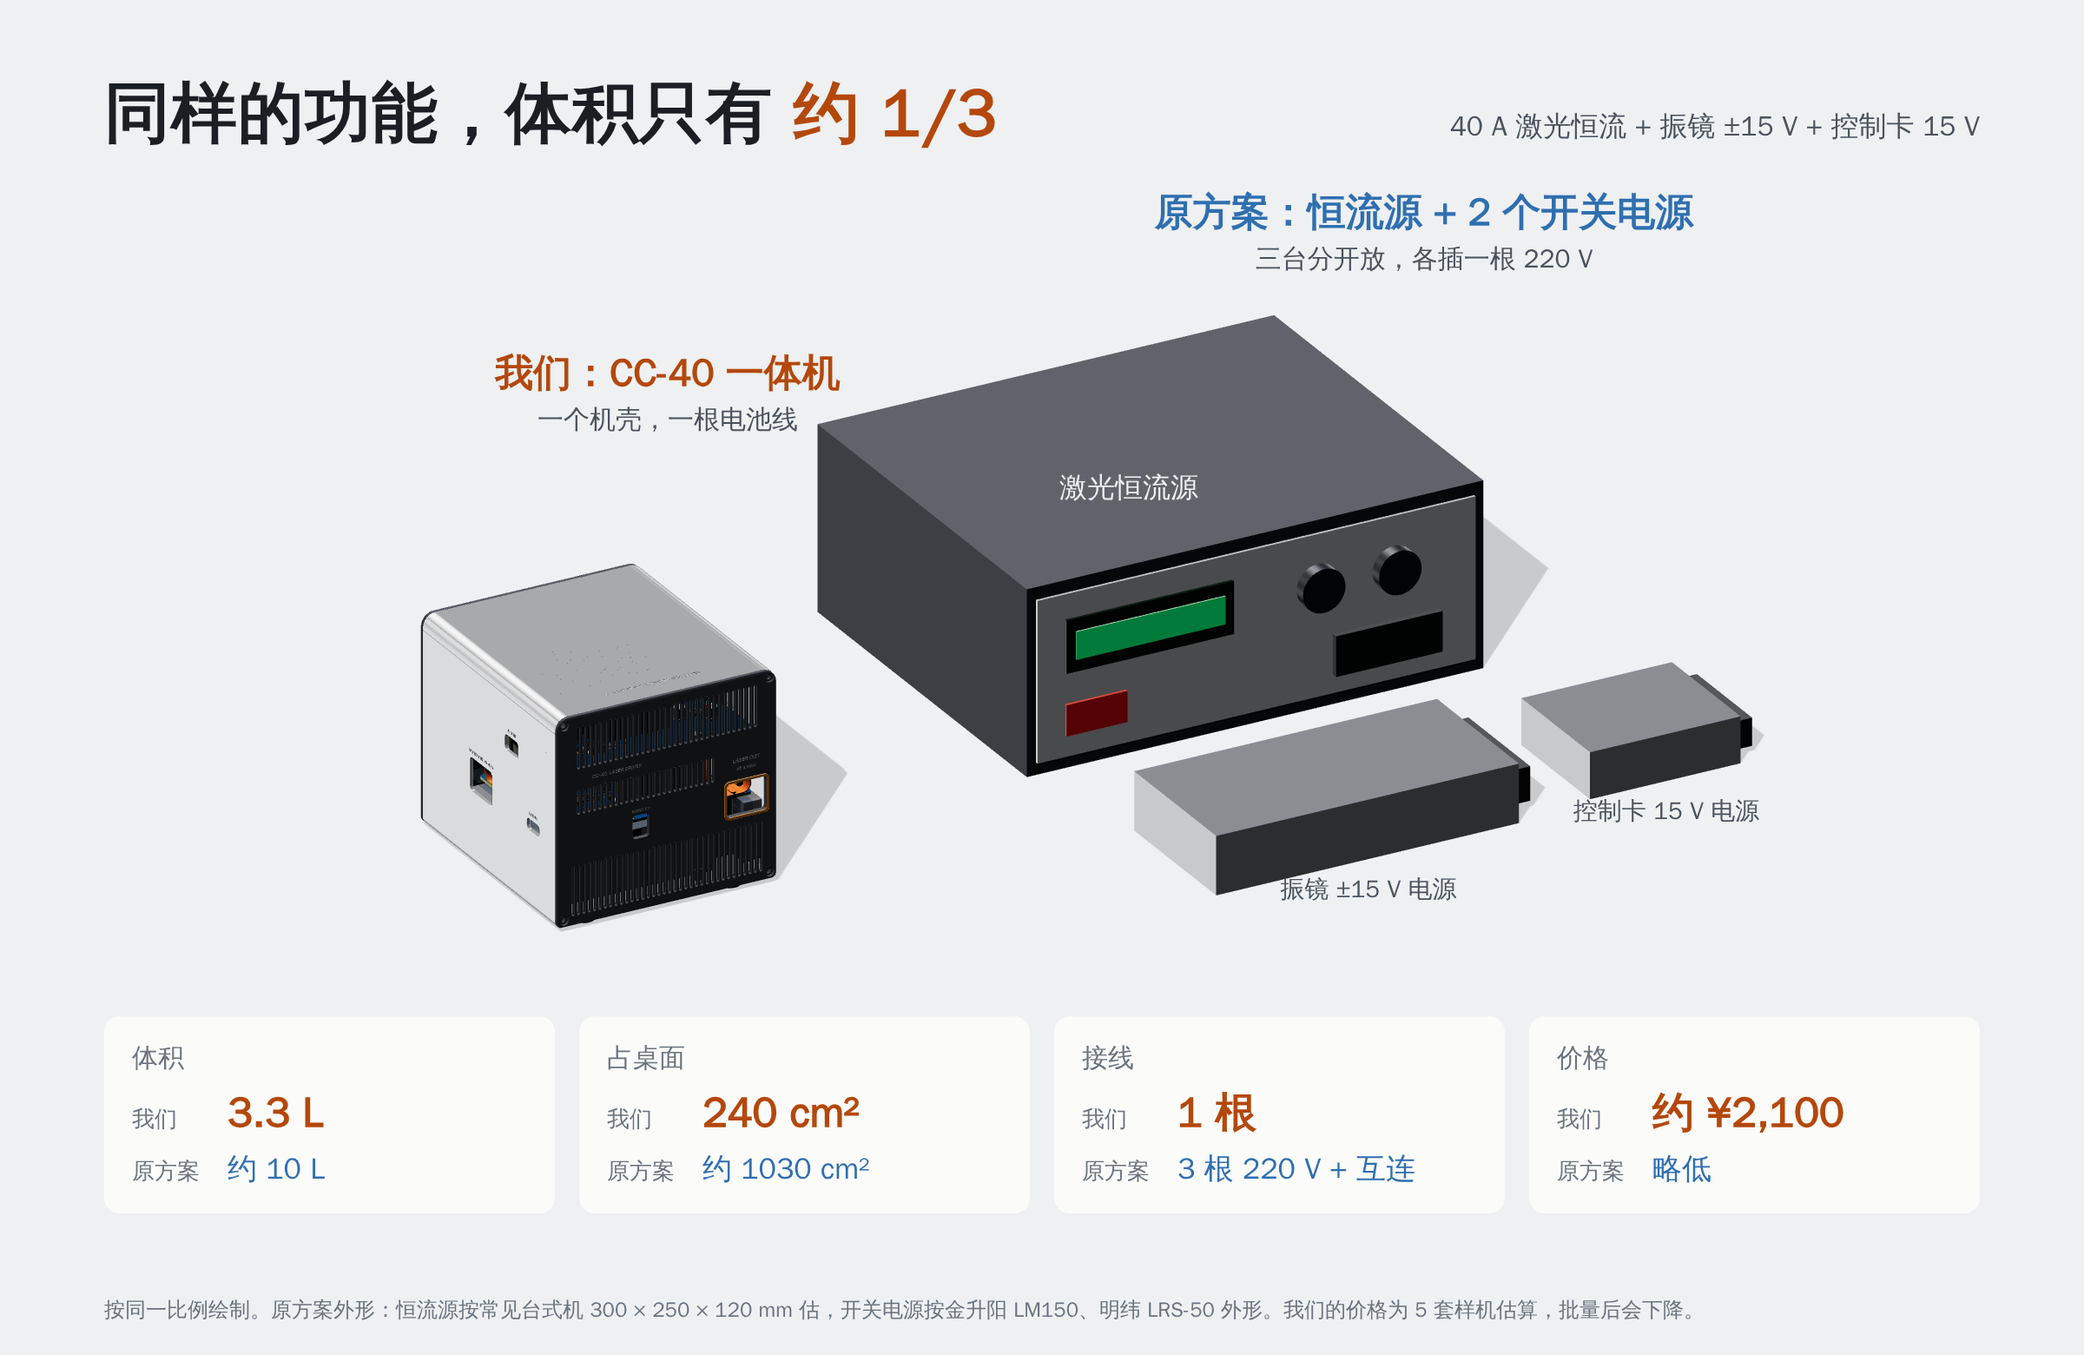
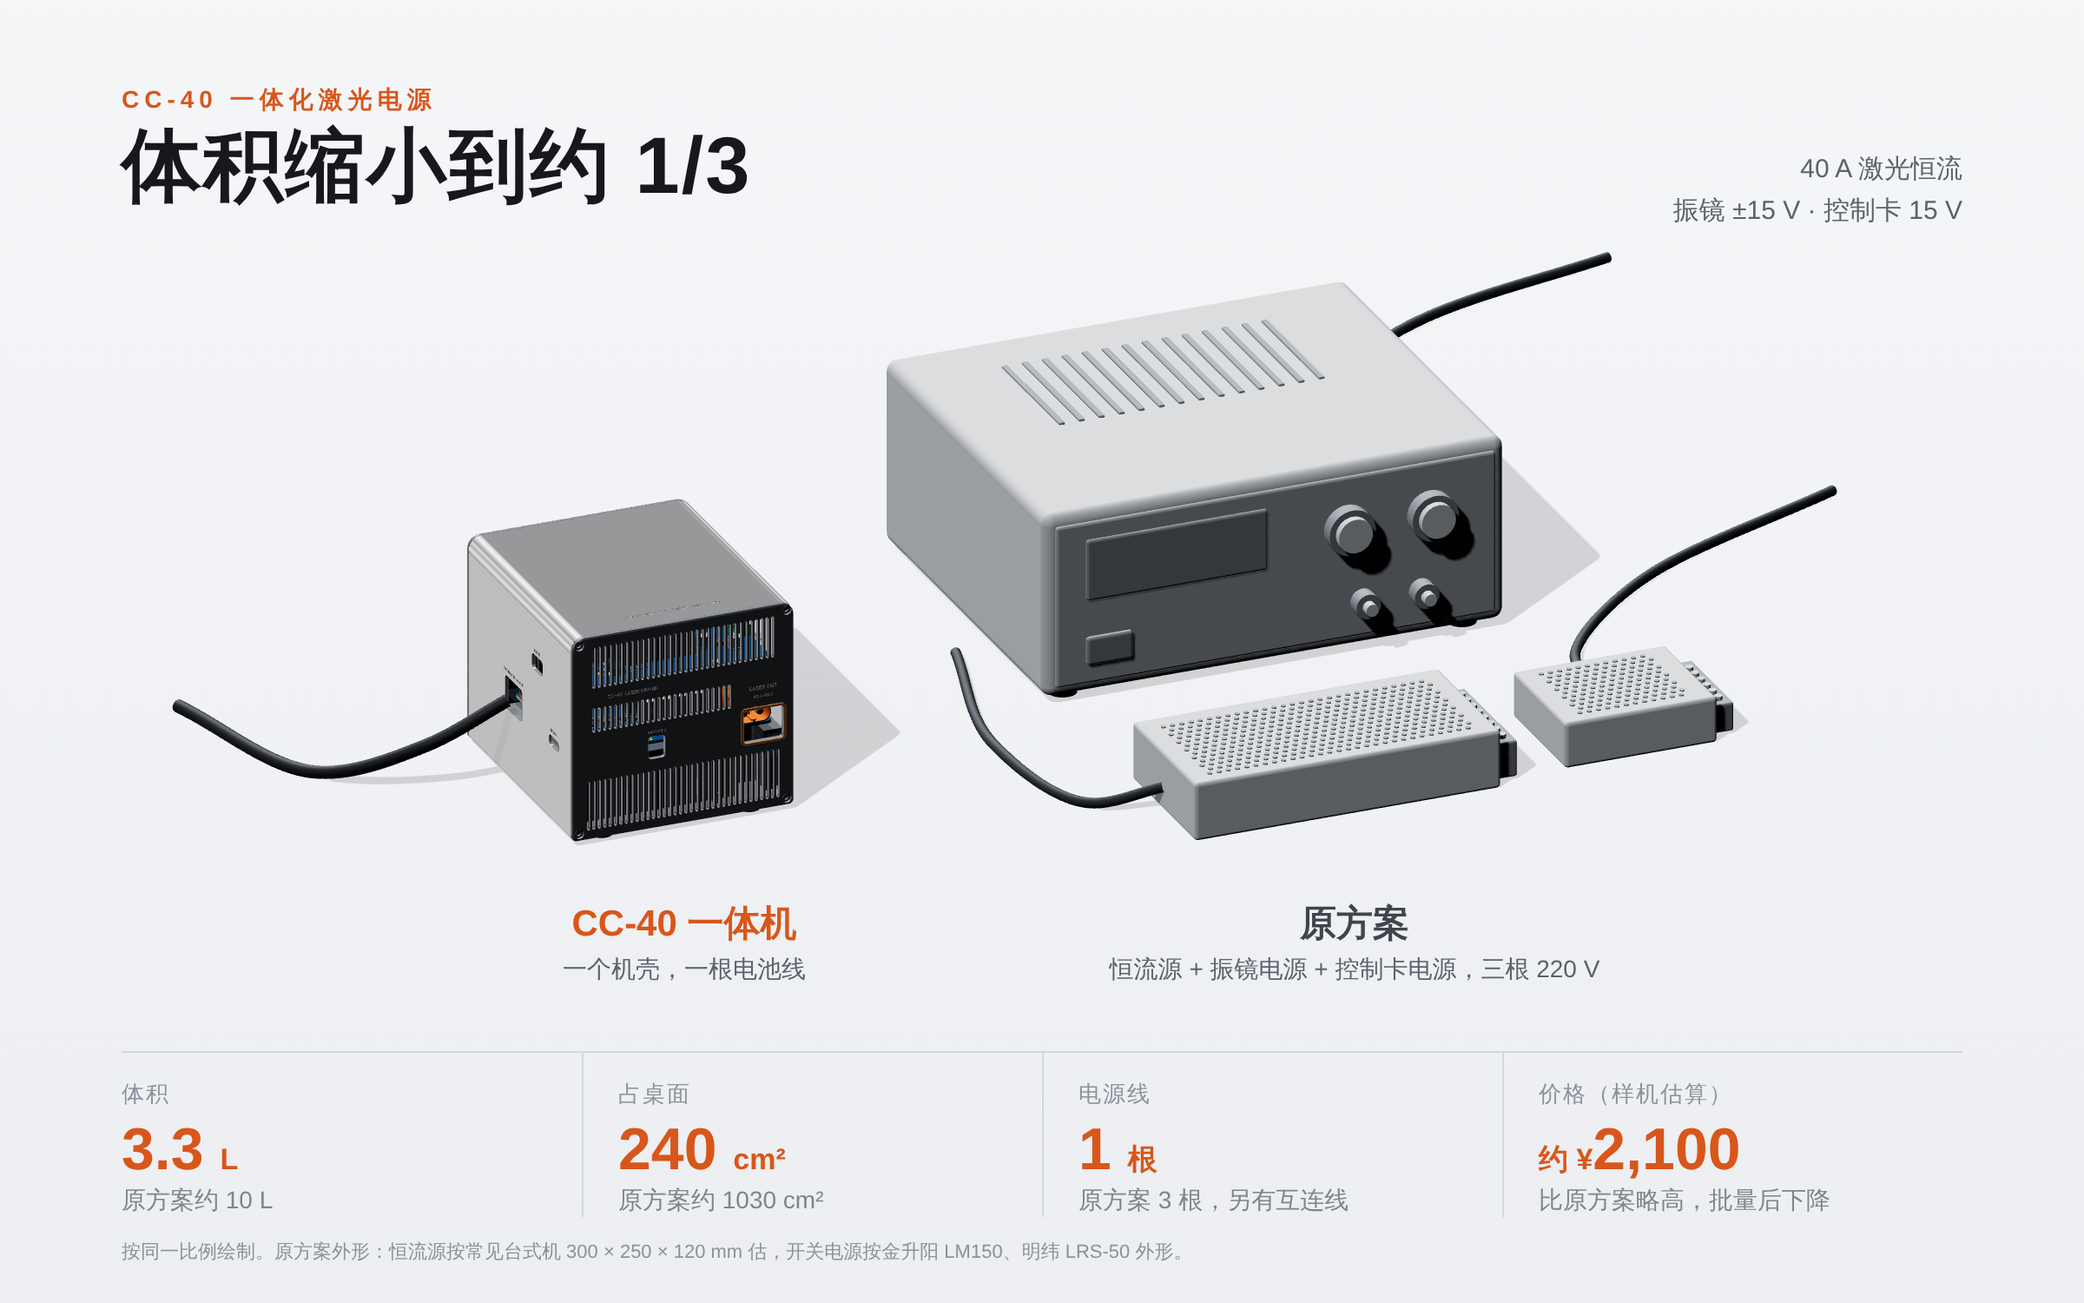
对比图重做：原方案灰色素模、电源线、版面精简
Claude-Session: https://claude.ai/code/session_01T5e27bco3eB8cP9fAY52gn

diff --git a/docs/仿真/成本/对比图_同比例场景.html b/docs/仿真/成本/对比图_同比例场景.html
@@ -1,48 +1,66 @@
-<!doctype html><html><head><meta charset="utf-8"><style>html,body{margin:0;background:#EEF0F2}canvas{display:block}</style>
+<!doctype html><html><head><meta charset="utf-8"><style>html,body{margin:0;background:transparent}canvas{display:block}</style>
 <script type="importmap">{"imports":{"three":"./three/build/three.module.js","three/addons/":"./three/examples/jsm/"}}</script></head><body>
 <script type="module">
 import * as THREE from 'three';
 import {GLTFLoader} from 'three/addons/loaders/GLTFLoader.js';
 import {RoomEnvironment} from 'three/addons/environments/RoomEnvironment.js';
+import {RoundedBoxGeometry} from 'three/addons/geometries/RoundedBoxGeometry.js';
 const W=2400,H=1000;
-const r=new THREE.WebGLRenderer({antialias:true,preserveDrawingBuffer:true});r.setSize(W,H);r.toneMapping=THREE.ACESFilmicToneMapping;r.outputColorSpace=THREE.SRGBColorSpace;r.shadowMap.enabled=true;r.shadowMap.type=THREE.PCFSoftShadowMap;document.body.appendChild(r.domElement);
-const s=new THREE.Scene();s.background=new THREE.Color('#EEF0F2');
+const r=new THREE.WebGLRenderer({antialias:true,preserveDrawingBuffer:true,alpha:true});r.setSize(W,H);r.setClearColor(0x000000,0);
+r.toneMapping=THREE.ACESFilmicToneMapping;r.toneMappingExposure=1.05;r.outputColorSpace=THREE.SRGBColorSpace;r.shadowMap.enabled=true;r.shadowMap.type=THREE.PCFSoftShadowMap;document.body.appendChild(r.domElement);
+const s=new THREE.Scene();
 s.environment=new THREE.PMREMGenerator(r).fromScene(new RoomEnvironment(),0.04).texture;
-const key=new THREE.DirectionalLight(0xffffff,1.5);key.position.set(-400,-700,900);key.castShadow=true;key.shadow.mapSize.set(4096,4096);key.shadow.bias=-0.0004;key.shadow.normalBias=0.6;
-Object.assign(key.shadow.camera,{left:-700,right:700,top:700,bottom:-700,near:10,far:3000});key.target.position.set(330,40,0);s.add(key,key.target);
-const gnd=new THREE.Mesh(new THREE.PlaneGeometry(6000,6000),new THREE.ShadowMaterial({opacity:0.16}));gnd.position.z=-53;gnd.receiveShadow=true;s.add(gnd);
+const key=new THREE.DirectionalLight(0xffffff,1.3);key.position.set(-500,-600,1100);key.castShadow=true;key.shadow.mapSize.set(4096,4096);key.shadow.radius=6;key.shadow.bias=-0.0004;key.shadow.normalBias=0.6;
+Object.assign(key.shadow.camera,{left:-800,right:800,top:800,bottom:-800,near:10,far:3000});key.target.position.set(350,30,0);s.add(key,key.target);
+const gnd=new THREE.Mesh(new THREE.PlaneGeometry(8000,8000),new THREE.ShadowMaterial({opacity:0.13}));gnd.position.z=-53;gnd.receiveShadow=true;s.add(gnd);
 const Z0=-53;
-function box(x,y,w,d,h,col,met=0.5,rough=0.45){const m=new THREE.Mesh(new THREE.BoxGeometry(w,d,h),new THREE.MeshStandardMaterial({color:col,metalness:met,roughness:rough}));m.position.set(x+w/2,y+d/2,Z0+h/2);m.castShadow=m.receiveShadow=true;s.add(m);return m;}
-function part(x,y,z,w,d,h,col,met=0.3,rough=0.5){const m=new THREE.Mesh(new THREE.BoxGeometry(w,d,h),new THREE.MeshStandardMaterial({color:col,metalness:met,roughness:rough}));m.position.set(x+w/2,y+d/2,z+h/2);m.castShadow=true;s.add(m);return m;}
-function knob(x,y,z,rad,col){const g=new THREE.CylinderGeometry(rad,rad,8,32);const m=new THREE.Mesh(g,new THREE.MeshStandardMaterial({color:col,metalness:0.4,roughness:0.4}));m.position.set(x,y-4,z);m.castShadow=true;s.add(m);}
-// 1) 台式激光恒流源（示意，按常见 300 × 250 × 120 mm）
-const X1=330,Y1=40;
-box(X1,Y1,300,250,120,'#3a3f46',0.4,0.5);
-part(X1+6,Y1-2,Z0+8,288,2,104,'#d9dcdf',0.6,0.4);           // 前面板
-part(X1+24,Y1-4,Z0+62,110,2,34,'#1d2b22',0.1,0.3);          // 显示屏
-part(X1+30,Y1-5,Z0+70,98,1,18,'#48d27a',0.0,0.6);
-knob(X1+190,Y1-2,Z0+79,14,'#2b2f35');knob(X1+240,Y1-2,Z0+79,14,'#2b2f35');
-part(X1+24,Y1-4,Z0+22,40,2,20,'#c0392b',0.2,0.4);            // 开关
-part(X1+200,Y1-6,Z0+20,70,4,26,'#202327',0.3,0.5);          // 输出端子
-// 2) 振镜 ±15 V 开关电源（199 × 98 × 38 mm，金升阳 LM150 类外形）
-const X2=X1+20;
-box(X2,-150,199,98,38,'#b9bec4',0.7,0.35);
-part(X2+199,-138,Z0+6,14,74,22,'#2a2d31');                   // 端子排
-// 3) 控制卡 15 V 开关电源（99 × 82 × 30 mm，LRS-50 类外形）
-const X3=X2+250;
-box(X3,-142,99,82,30,'#b9bec4',0.7,0.35);
-part(X3+99,-134,Z0+5,12,66,18,'#2a2d31');
+const CLAY=new THREE.MeshStandardMaterial({color:'#C3C7CC',metalness:0,roughness:0.75});
+const CLAY2=new THREE.MeshStandardMaterial({color:'#A7ADB4',metalness:0,roughness:0.8});
+const CLAY3=new THREE.MeshStandardMaterial({color:'#8C9299',metalness:0,roughness:0.85});
+const add=(g,m,x,y,z)=>{const o=new THREE.Mesh(g,m);o.position.set(x,y,z);o.castShadow=true;o.receiveShadow=true;s.add(o);return o;};
+const rbox=(w,d,h,rad,m,x,y,z)=>add(new RoundedBoxGeometry(w,d,h,4,rad),m,x+w/2,y+d/2,z+h/2);
+const cyl=(rad,len,m,x,y,z,axis='y')=>{const o=add(new THREE.CylinderGeometry(rad,rad,len,40),m,x,y,z);if(axis==='z')o.rotation.x=Math.PI/2;return o;};
+// 1) 台式激光恒流源（示意 300 × 250 × 120）
+const X1=330,Y1=60;
+rbox(300,250,120,7,CLAY,X1,Y1,Z0+6);
+for(const [fx,fy] of [[20,20],[280,20],[20,230],[280,230]])cyl(9,6,CLAY3,X1+fx,Y1+fy,Z0+3,'z');
+rbox(286,4,106,3,CLAY2,X1+7,Y1-2,Z0+13);                       // 前面板
+rbox(118,4,40,3,CLAY3,X1+26,Y1-4,Z0+68);                       // 显示窗
+for(const kx of [196,250]){cyl(15,10,CLAY3,X1+kx,Y1-6,Z0+86);cyl(11,6,CLAY,X1+kx,Y1-13,Z0+86);}
+rbox(30,6,18,2,CLAY3,X1+26,Y1-5,Z0+26);                        // 电源开关
+for(const bx of [206,244]){cyl(8,10,CLAY3,X1+bx,Y1-7,Z0+36);cyl(4,8,CLAY,X1+bx,Y1-14,Z0+36);}  // 输出接线柱
+for(let i=0;i<14;i++)rbox(4,90,2,1,CLAY3,X1+60+i*13,Y1+120,Z0+125.2);   // 顶部散热缝
+// 开关电源：网孔外壳 + 端子排
+function psu(x,y,w,d,h,termSide){
+  rbox(w,d,h,2.5,CLAY,x,y,Z0);
+  const n=Math.floor((w-24)/6),m=Math.floor((d-16)/6);
+  const g=new THREE.CylinderGeometry(1.6,1.6,1,16);g.rotateX(Math.PI/2);
+  const im=new THREE.InstancedMesh(g,CLAY3,n*m);let k=0;const M=new THREE.Matrix4();
+  for(let i=0;i<n;i++)for(let j=0;j<m;j++){M.makeTranslation(x+14+i*6+(j%2)*3,y+8+j*6+3,Z0+h+0.2);im.setMatrixAt(k++,M);} s.add(im);
+  const tw=14;rbox(tw,d-16,h*0.62,1.5,CLAY3,x+w,y+8,Z0+2);
+  const nt=Math.floor((d-20)/9);for(let i=0;i<nt;i++)cyl(2.6,3,CLAY,x+w+tw/2,y+12+i*9+4,Z0+2+h*0.62+1,'z');
+}
+const X2=X1+10,Y2=-150; psu(X2,Y2,199,98,38);
+const X3=X2+245,Y3=-140; psu(X3,Y3,99,82,30);
+// 电源线
+const CORD=new THREE.MeshStandardMaterial({color:'#3B4048',metalness:0.1,roughness:0.6});
+function cord(pts){const c=new THREE.CatmullRomCurve3(pts.map(p=>new THREE.Vector3(...p)));const o=new THREE.Mesh(new THREE.TubeGeometry(c,80,3.2,12,false),CORD);o.castShadow=true;s.add(o);}
+cord([[X1+280,Y1+250,Z0+30],[X1+300,Y1+330,Z0+4],[X1+420,Y1+420,Z0+3.2],[X1+560,Y1+460,Z0+3.2]]);
+cord([[X2,Y2+50,Z0+15],[X2-40,Y2+70,Z0+3.2],[X2-60,Y2+170,Z0+3.2],[X2-30,Y2+300,Z0+3.2]]);
+cord([[X3+50,Y3+82,Z0+12],[X3+70,Y3+150,Z0+3.2],[X3+150,Y3+230,Z0+3.2],[X3+300,Y3+300,Z0+3.2]]);
+// 我们的电池线（从左侧电池口出来）
+const BAT=new THREE.MeshStandardMaterial({color:'#2B2F35',metalness:0.1,roughness:0.55});
+{const c=new THREE.CatmullRomCurve3([[-12,77,7],[-60,90,-20],[-110,140,Z0+3.2],[-150,260,Z0+3.2]].map(p=>new THREE.Vector3(...p)));const o=new THREE.Mesh(new THREE.TubeGeometry(c,80,4,12,false),BAT);o.castShadow=true;s.add(o);}
 new GLTFLoader().parse(await (await fetch('B1_model.wasm')).arrayBuffer(),'',g=>{
   const m=g.scene;m.scale.setScalar(1000);s.add(m);
   m.traverse(o=>{if(!o.isMesh)return;o.castShadow=o.receiveShadow=true;let p=o,nm='';while(p){if(/^(B1_|INK_)/.test(p.name)){nm=p.name;break;}p=p.parent;}
-    const mt=o.material=o.material.clone();if(/B1_(TRAY|LID)/.test(nm)){mt.metalness=0.7;mt.roughness=0.35;}else if(/^INK_/.test(nm)){mt.color.set('#e6e8ea');o.castShadow=false;}});
-  const cam=new THREE.OrthographicCamera(-W/2,W/2,H/2,-H/2,1,5000);cam.up.set(0,0,1);
-  const tgt=new THREE.Vector3(340,40,25);cam.position.copy(tgt).add(new THREE.Vector3(-0.55,-1,0.55).normalize().multiplyScalar(2000));cam.lookAt(tgt);
-  cam.zoom=W/1200;cam.updateProjectionMatrix();
+    const mt=o.material=o.material.clone();if(/B1_(TRAY|LID)/.test(nm)){mt.metalness=0.75;mt.roughness=0.32;}else if(/B1_(FRONT|REAR)/.test(nm)){mt.metalness=0.5;mt.roughness=0.45;}else if(/^INK_/.test(nm)){mt.color.set('#e6e8ea');o.castShadow=false;}});
+  const cam=new THREE.OrthographicCamera(-W/2,W/2,H/2,-H/2,1,6000);cam.up.set(0,0,1);
+  const tgt=new THREE.Vector3(320,40,30);cam.position.copy(tgt).add(new THREE.Vector3(-0.42,-1,0.5).normalize().multiplyScalar(2500));cam.lookAt(tgt);
+  cam.zoom=W/1250;cam.updateProjectionMatrix();
   r.render(s,cam);
-  // 把关键点投影成像素坐标，给幻灯片放标签用
   const P=v=>{const q=new THREE.Vector3(...v).project(cam);return [Math.round((q.x+1)/2*W),Math.round((1-q.y)/2*H)];};
-  window.__pts={ours:P([64,-15,84]),cc:P([X1+150,Y1+125,Z0+120]),galvo:P([X2+100,-150,Z0]),card:P([X3+50,-142,Z0]),oursB:P([64,-15,-53]),ccB:P([X1+150,Y1,Z0])};
+  window.__pts={oursL:P([-8,-15,-53]),oursR:P([136,-15,-53]),oursF:P([64,-15,-53]),ccF:P([X1+150,Y1,Z0]),ccL:P([X1,Y1,Z0]),galvoF:P([X2+100,Y2,Z0]),cardF:P([X3+50,Y3,Z0]),cardR:P([X3+113,Y3,Z0])};
   window.__done=1;
 });
 </script></body></html>

diff --git a/docs/仿真/成本/对比图_poster.html b/docs/仿真/成本/对比图_poster.html
@@ -1,39 +1,36 @@
 <!doctype html><html><head><meta charset="utf-8">
 <style>
-:root{--bg:#EEF0F2;--ink:#1B1E23;--soft:#4A525C;--mute:#6A737D;--or:#E1631B;--or2:#B4480C;--bl:#2F6FB0}
+:root{--ink:#16181C;--soft:#5A626C;--mute:#8A929B;--line:#D3D7DC;--or:#D9561A;--grey:#7D858E}
 *{box-sizing:border-box;margin:0}
-body{width:2400px;height:1560px;background:var(--bg);color:var(--ink);font-family:"Noto Sans CJK SC","Noto Sans SC","WenQuanYi Zen Hei",sans-serif;position:relative;overflow:hidden}
-.head{position:absolute;left:120px;top:80px;right:120px;display:flex;justify-content:space-between;align-items:baseline}
-h1{font-size:76px;font-weight:900;letter-spacing:1px}
-h1 em{font-style:normal;color:var(--or2)}
-.sub{font-size:32px;color:var(--soft)}
-.render{position:absolute;left:0;top:250px;width:2400px;height:1000px}
-.tag{position:absolute;transform:translateX(-50%);text-align:center;white-space:nowrap}
-.tag b{display:block;font-size:44px;font-weight:800}
-.tag span{display:block;font-size:30px;color:var(--soft);margin-top:4px}
-.small{position:absolute;transform:translateX(-50%);font-size:28px;color:var(--soft);white-space:nowrap}
-.divider{position:absolute;left:1010px;top:300px;height:780px;border-left:3px dashed #C3C8CE}
-.metrics{position:absolute;left:120px;right:120px;top:1170px;display:grid;grid-template-columns:repeat(4,1fr);gap:28px}
-.m{background:#FBFBFA;border-radius:18px;padding:28px 32px;display:flex;flex-direction:column;gap:10px}
-.m h3{font-size:30px;color:var(--mute);font-weight:500}
-.row{display:flex;align-items:baseline;gap:14px;font-size:30px}
-.row .k{width:96px;color:var(--mute);font-size:26px}
-.us{font-size:48px;font-weight:800;color:var(--or2)}
-.them{font-size:34px;font-weight:600;color:var(--bl)}
-.foot{position:absolute;left:120px;right:120px;bottom:36px;font-size:24px;color:var(--mute)}
+body{width:2400px;height:1500px;background:linear-gradient(180deg,#F5F6F8 0%,#ECEEF1 100%);color:var(--ink);
+  font-family:"Noto Sans CJK SC","Noto Sans SC",sans-serif;position:relative;overflow:hidden}
+.eyebrow{position:absolute;left:140px;top:96px;font-size:28px;font-weight:700;letter-spacing:6px;color:var(--or)}
+h1{position:absolute;left:140px;top:140px;font-size:92px;font-weight:900;letter-spacing:2px;line-height:1.1}
+.spec{position:absolute;right:140px;top:170px;font-size:30px;color:var(--soft);text-align:right;line-height:1.6}
+.render{position:absolute;left:0;top:190px;width:2400px;height:1000px}
+.cap{position:absolute;transform:translateX(-50%);text-align:center;white-space:nowrap}
+.cap b{display:block;font-size:42px;font-weight:800;color:var(--or)}
+.cap span{display:block;font-size:28px;color:var(--soft);margin-top:6px}
+.band{position:absolute;left:140px;right:140px;top:1210px;display:grid;grid-template-columns:repeat(4,1fr);border-top:2px solid var(--line)}
+.c{padding:30px 40px 0;border-left:2px solid var(--line)}
+.c:first-child{border-left:none;padding-left:0}
+.c h3{font-size:26px;font-weight:500;color:var(--mute);letter-spacing:2px}
+.c .us{font-size:68px;font-weight:900;color:var(--or);line-height:1.15;margin-top:6px}
+.c .us small{font-size:34px;font-weight:700}
+.c .them{font-size:28px;color:var(--grey);margin-top:2px}
+.foot{position:absolute;left:140px;right:140px;bottom:44px;font-size:22px;color:var(--mute)}
 </style></head><body>
-<div class="head"><h1>同样的功能，体积只有 <em>约 1/3</em></h1><p class="sub">40 A 激光恒流 + 振镜 ±15 V + 控制卡 15 V</p></div>
-<img class="render" src="cmp.png" alt="">
-<div class="tag" style="left:769px;top:400px;color:var(--or2)"><b>我们：CC-40 一体机</b><span>一个机壳，一根电池线</span></div>
-<div class="tag" style="left:1640px;top:215px;color:var(--bl)"><b>原方案：恒流源 + 2 个开关电源</b><span>三台分开放，各插一根 220 V</span></div>
-<div class="small" style="left:1576px;top:1005px">振镜 ±15 V 电源</div>
-<div class="small" style="left:1919px;top:915px">控制卡 15 V 电源</div>
-<div class="small" style="left:1300px;top:540px;color:#EEF0F2;font-size:32px">激光恒流源</div>
-<div class="metrics">
- <div class="m"><h3>体积</h3><div class="row"><span class="k">我们</span><span class="us">3.3 L</span></div><div class="row"><span class="k">原方案</span><span class="them">约 10 L</span></div></div>
- <div class="m"><h3>占桌面</h3><div class="row"><span class="k">我们</span><span class="us">240 cm²</span></div><div class="row"><span class="k">原方案</span><span class="them">约 1030 cm²</span></div></div>
- <div class="m"><h3>接线</h3><div class="row"><span class="k">我们</span><span class="us">1 根</span></div><div class="row"><span class="k">原方案</span><span class="them">3 根 220 V + 互连</span></div></div>
- <div class="m"><h3>价格</h3><div class="row"><span class="k">我们</span><span class="us">约 ¥2,100</span></div><div class="row"><span class="k">原方案</span><span class="them">略低</span></div></div>
+<p class="eyebrow">CC-40 一体化激光电源</p>
+<h1>体积缩小到约 1/3</h1>
+<p class="spec">40 A 激光恒流<br>振镜 ±15 V · 控制卡 15 V</p>
+<img class="render" src="cmp2.png" alt="">
+<div class="cap" style="left:788px;top:1035px"><b>CC-40 一体机</b><span>一个机壳，一根电池线</span></div>
+<div class="cap" style="left:1560px;top:1035px"><b style="color:#3E454D">原方案</b><span>恒流源 + 振镜电源 + 控制卡电源，三根 220 V</span></div>
+<div class="band">
+ <div class="c"><h3>体积</h3><p class="us">3.3 <small>L</small></p><p class="them">原方案约 10 L</p></div>
+ <div class="c"><h3>占桌面</h3><p class="us">240 <small>cm²</small></p><p class="them">原方案约 1030 cm²</p></div>
+ <div class="c"><h3>电源线</h3><p class="us">1 <small>根</small></p><p class="them">原方案 3 根，另有互连线</p></div>
+ <div class="c"><h3>价格（样机估算）</h3><p class="us"><small>约 ¥</small>2,100</p><p class="them">比原方案略高，批量后下降</p></div>
 </div>
-<p class="foot">按同一比例绘制。原方案外形：恒流源按常见台式机 300 × 250 × 120 mm 估，开关电源按金升阳 LM150、明纬 LRS-50 外形。我们的价格为 5 套样机估算，批量后会下降。</p>
+<p class="foot">按同一比例绘制。原方案外形：恒流源按常见台式机 300 × 250 × 120 mm 估，开关电源按金升阳 LM150、明纬 LRS-50 外形。</p>
 </body></html>

diff --git a/docs/对话记录/2026-11-01.md b/docs/对话记录/2026-11-01.md
@@ -60,4 +60,4 @@
 - 结论（估算）：一体机样机约 ¥2,110 / 套，100 套约 ¥1,160；原方案约 ¥3,250（2,340–4,620）。最贵的是两只隔离模块（约 ¥485）。
   主要优势：一路电池输入代替三路市电、一台 3.3 L 机壳、STM32 设定并读回电流、保护集中设计。原方案价格按市场价估，待用户给实际价格。
 - 产出：演示稿 https://claude.ai/artifact/MFE9JYPLAjUvE5sCT5PrQK（先做 11 页，用户嫌复杂，精简为 5 页）；`docs/成本估算_2026-11-01.md`；`docs/仿真/成本/cost_cc40.py`。
-- 追加：用户嫌演示稿复杂、不要 PPT，要一张左右对比图（我们体积小、价格略高）。产出 `docs/仿真/成本/一体机对比图_20261101.png`（同比例渲染 + 体积 / 占地 / 接线 / 价格四格）及源文件 `对比图_poster.html`、`对比图_同比例场景.html`。
+- 追加：用户嫌演示稿复杂、不要 PPT（第一版对比图又嫌丑，改为原方案用灰色素模、画出电源线、版面重排），要一张左右对比图（我们体积小、价格略高）。产出 `docs/仿真/成本/一体机对比图_20261101.png`（同比例渲染 + 体积 / 占地 / 接线 / 价格四格）及源文件 `对比图_poster.html`、`对比图_同比例场景.html`。
